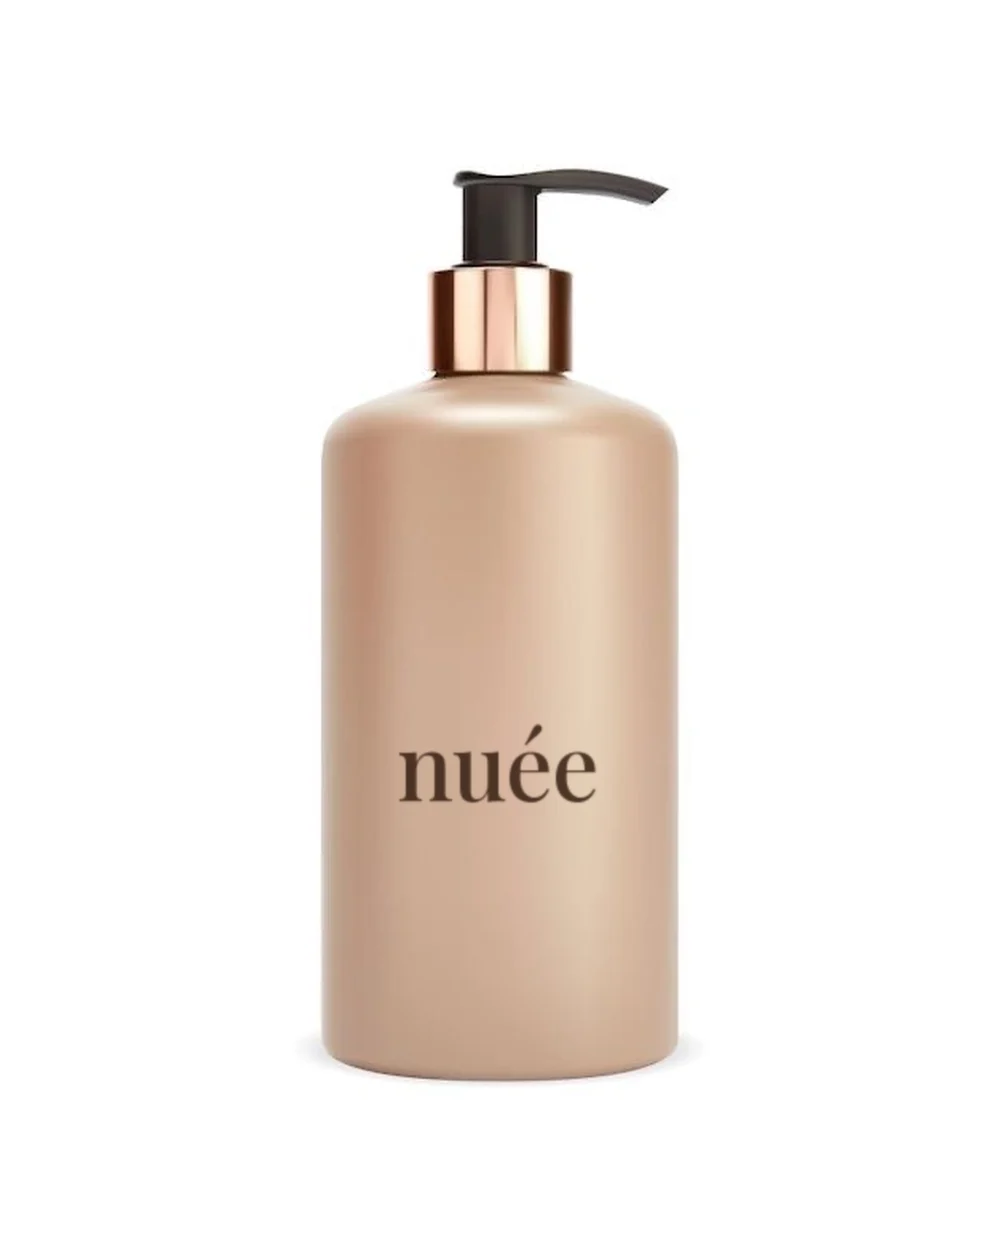
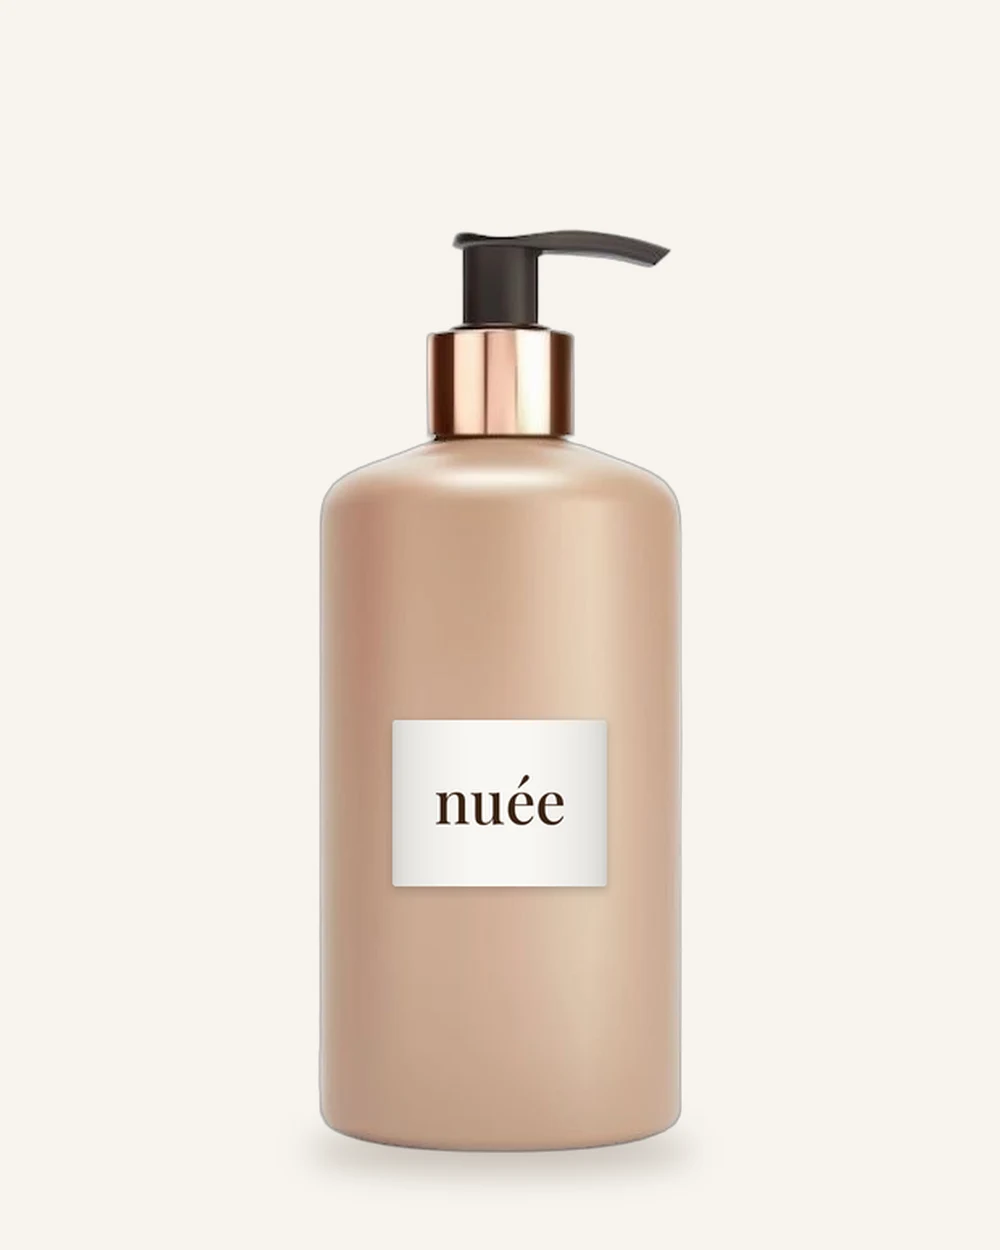
Studio cutouts with white nuée labels for all products; bottle sits in the palm
- Products cut out from their photos and placed on one shared background,
  each with the same horizontal white label (spray bottle stood upright)
- Hand scene: a front copy of the hand curves around the bottle base, with a
  soft palm shadow, so the bottle reads as held

Claude-Session: https://claude.ai/code/session_01GqRZiSnSzUiMjSV1Nmhbyy

Changed region(s): [[0.31, 0.1248, 0.713, 0.9672], [0.372, 0.5616, 0.62, 0.7176]]

diff --git a/index.html b/index.html
@@ -97,6 +97,15 @@ img{display:block;height:auto;max-width:none;user-select:none;-webkit-user-selec
 .hand{position:absolute;left:0;top:0;z-index:6;transform-origin:0 0;overflow:hidden;will-change:transform;pointer-events:none}
 .hand img{width:100%}
 .hand.raw img{width:119.35%;margin-top:-27.97%}
+/* the bottle sits in the palm: a front copy of the hand, clipped to the near side of the palm, covers its base */
+.hand-front{z-index:8;
+  -webkit-mask-image:radial-gradient(ellipse var(--mrx) var(--mry) at var(--mx) var(--my),transparent 94%,#000 100%),linear-gradient(#000,#000);
+  mask-image:radial-gradient(ellipse var(--mrx) var(--mry) at var(--mx) var(--my),transparent 94%,#000 100%),linear-gradient(#000,#000);
+  -webkit-mask-size:100% 100%,var(--mw) var(--mh);mask-size:100% 100%,var(--mw) var(--mh);
+  -webkit-mask-position:0 0,var(--ml) var(--mt);mask-position:0 0,var(--ml) var(--mt);-webkit-mask-repeat:no-repeat;mask-repeat:no-repeat;
+  -webkit-mask-composite:source-in;mask-composite:intersect}
+.palm-shadow{position:absolute;left:63%;top:var(--py,46%);width:var(--pw,80px);height:calc(var(--pw,80px) * .24);transform:translate(-50%,-50%);
+  border-radius:50%;background:radial-gradient(closest-side,rgba(70,40,22,.38),rgba(70,40,22,0));pointer-events:none}
 
 /* about / reviews / contact panel (after scene 4) */
 .home .nav.solid{background:var(--bg);border-bottom-color:var(--line);--nav-pb:12px}
@@ -188,7 +197,8 @@ html.intro .nav,html.intro .mark,html.intro .hero .frame,html.intro .jar,html.in
   </section>
 
   <img class="jar" id="jar" alt="Flacon compte-gouttes de sérum nuée" src="assets/nuee-serum.webp">
-  <div class="hand" id="hand"><img id="handImg" alt=""></div>
+  <div class="hand" id="hand"><img id="handImg" alt=""><i class="palm-shadow" id="palmShadow"></i></div>
+  <div class="hand hand-front" id="handFront" aria-hidden="true"><img id="handImg2" alt=""></div>
 
   <section class="info" id="info" tabindex="-1">
     <div class="wrap blk about" id="about">
@@ -247,7 +257,7 @@ const $ = id => document.getElementById(id);
 const root = document.documentElement;
 const stage = $('stage'), nav = $('nav'), hero = $('hero'), heroFrame = $('heroFrame'), mark = $('mark'), heroCta = $('heroCta');
 const ingr = $('ingr'), bene = $('bene'), rowsEl = $('rows'), scene = $('scene'), cta = $('cta'), info = $('info');
-const jar = $('jar'), hand = $('hand'), handImg = $('handImg');
+const jar = $('jar'), hand = $('hand'), handImg = $('handImg'), handFront = $('handFront'), handImg2 = $('handImg2');
 const va = $('va'), vb = $('vb');
 const chips = [...document.querySelectorAll('.chip')];
 const RM = matchMedia('(prefers-reduced-motion: reduce)');
@@ -374,8 +384,18 @@ function layout() {
     hx0 = vw / 2 - 0.63 * hw;
   }
   const hh = hw * HAND_R;
-  handTop = K2.y - 0.36 * hh; // bottle stands in front of the palm, its base just below the palm line
-  hand.style.width = hw + 'px'; hand.style.height = hh + 'px';
+  const SEAT = 0.46;            // bottle base sits 46% down the hand image, in the middle of the palm
+  handTop = K2.y - SEAT * hh;
+  [hand, handFront].forEach(el => { el.style.width = hw + 'px'; el.style.height = hh + 'px'; });
+  setVar(hand, '--py', SEAT * 100 + '%'); setVar(hand, '--pw', 1.3 * K2.h / BOT_R + 'px');
+  $('palmShadow').style.left = ((K2.x - hx0) / hw * 100) + '%';
+  // front copy of the hand: visible only in a band around the bottle base, with a curved opening so the
+  // palm rises around the sides of the base (cupped) and the centre of the base stays just visible
+  const bw = K2.h / BOT_R, bx = K2.x - hx0, by = SEAT * hh;
+  setVar(handFront, '--mx', bx + 'px'); setVar(handFront, '--my', (by - 0.42 * bw) + 'px');
+  setVar(handFront, '--mrx', 0.58 * bw + 'px'); setVar(handFront, '--mry', 0.45 * bw + 'px');
+  setVar(handFront, '--ml', (bx - 0.9 * bw) + 'px'); setVar(handFront, '--mt', (by - 0.3 * bw) + 'px');
+  setVar(handFront, '--mw', 1.8 * bw + 'px'); setVar(handFront, '--mh', (hh - by + 0.3 * bw) + 'px');
 
   /* final scene */
   K4 = F(720, 697, 240);
@@ -496,7 +516,7 @@ function render(now) {
   heroFrame.style.transform = `translate3d(0,${io}px,0) scale(${1 + (1 - hv) * 0.06})`;
   const b = ch.bene.v;
   bene.style.transform = `translate3d(0,${(1 - b) * 100}%,0)`;
-  hand.style.transform = `translate3d(${hx0 - ch.handOut.v * (hx0 + 1.05 * hw)}px,${handTop + (1 - b) * vh}px,0)`;
+  hand.style.transform = handFront.style.transform = `translate3d(${hx0 - ch.handOut.v * (hx0 + 1.05 * hw)}px,${handTop + (1 - b) * vh}px,0)`;
   rowsEl.style.opacity = ch.rows.v;
   const sc = ch.scene.v, iv = ch.info.v;
   scene.style.transform = `translate3d(0,${(1 - sc) * 100}%,0)`;
@@ -670,8 +690,8 @@ function cleanCutout(url, crop) {
   });
 }
 const handReady = cleanCutout(HAND_URL, HAND_CROP)
-  .then(u => { handImg.src = u; })
-  .catch(() => { hand.classList.add('raw'); handImg.src = HAND_URL; });
+  .then(u => { handImg.src = handImg2.src = u; })
+  .catch(() => { hand.classList.add('raw'); handFront.classList.add('raw'); handImg.src = handImg2.src = HAND_URL; });
 const bottleReady = jar.decode ? jar.decode().catch(() => {}) : Promise.resolve();
 const fontsReady = Promise.all([
   document.fonts.load('400 100px "Playfair Display"', 'nuée'),
